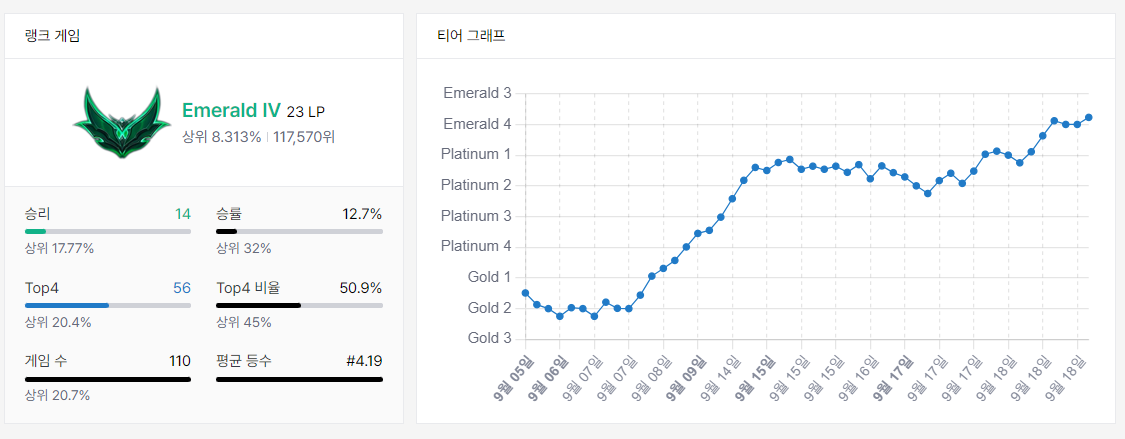
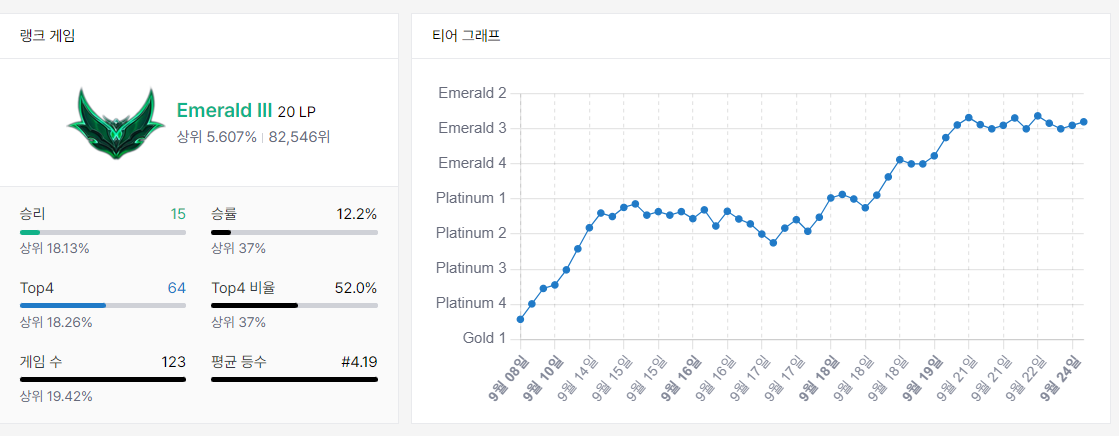
update

diff --git a/_posts/2024-09-26-TFT.md b/_posts/2024-09-26-TFT.md
@@ -899,7 +899,7 @@ TFT에는 증강이라는 시스템이 존재한다.
                          탐 켄치(가고일 돌갑옷, 워모그의 갑옷, 구원)
                           라칸(용의 발톱, 태양불꽃 망토, 굳건한 심장)
 
-### 데이터 분석 이후 일주일간 게임 플레이 결과
+### 데이터 분석 이후 2주일간 게임 플레이 결과
 
 ![24.png](/assets/img/posts/PROJECT/TFT/24.png)
 
